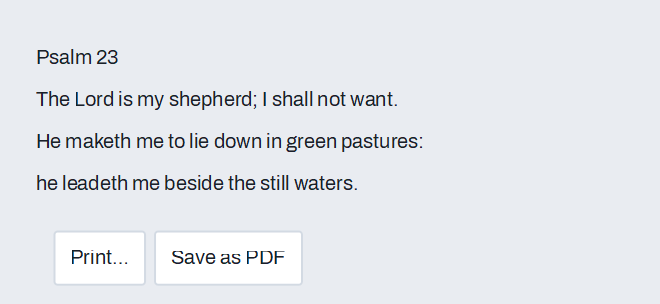
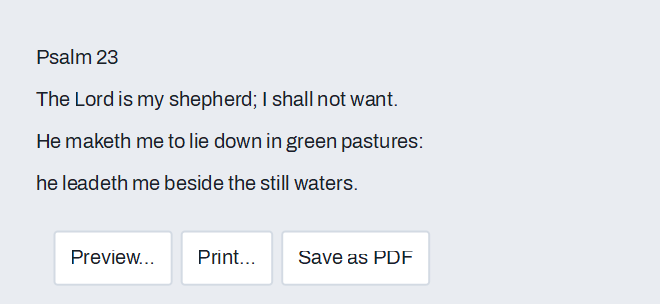
Print preview in its own window; the guide example gains Preview...
GUI_DIALOG is drawn inside its parent on Windows, which clipped the preview to
the example's 440x200 window (the gallery picture showed it: no page). The
preview is now a GUI_WINDOW of its own (640x860), as Qt's, Word's and the
browsers' are, the same on every platform: the parent's content waits disabled,
run_modal turns the loop until Print..., Close, the close box or Escape.
close_with ends it from code (tests, the gallery).

printing.md: Preview... in the example, run_preview in the API, Try it and the
design notes present the preview as the way on every platform (one line: Windows'
print dialog shows none of its own). Gallery: printing-preview.png. Windows 168/0.

Claude-Session: https://claude.ai/code/session_01LuozTG1hCoDVnQgJj1Hzzq

Changed region(s): [[0.1212, 0.7697, 0.6364, 0.9474]]

diff --git a/docs/guide/printing.md b/docs/guide/printing.md
@@ -19,17 +19,20 @@ feature {NONE} -- Initialization
 		local
 			l_window: GUI_WINDOW
 			l_stack, l_buttons: GUI_STACK
-			l_print, l_save: GUI_BUTTON
+			l_preview, l_print, l_save: GUI_BUTTON
 		do
 			create app.make ("Psalm", "org.example.psalm")
 			create l_window.make ("Psalm 23", 440, 200)
 			create l_stack.make_vertical
 			l_stack.extend (create {GUI_LABEL}.make (Psalm))
 			create l_buttons.make_horizontal
+			create l_preview.make ({STRING_32} "Preview%/8230/")
+			l_preview.click_actions.extend (agent preview_psalm (l_window))
 			create l_print.make ({STRING_32} "Print%/8230/")
 			l_print.click_actions.extend (agent print_psalm (l_window))
 			create l_save.make ("Save as PDF")
 			l_save.click_actions.extend (agent save_psalm)
+			l_buttons.extend (l_preview)
 			l_buttons.extend (l_print)
 			l_buttons.extend (l_save)
 			l_stack.extend (l_buttons)
@@ -47,6 +50,19 @@ feature {NONE} -- Printing
 			create l_job.make ("Psalm 23")
 			l_job.print_text (Psalm)
 			l_job.run_dialog (a_window)
+			if l_job.last_outcome = l_job.Outcome_failed and then attached l_job.last_error as al_why then
+				app.dialogs.inform ("Printing failed", al_why)
+			end
+		end
+
+	preview_psalm (a_window: GUI_WINDOW)
+			-- The pages as they will print; Print there goes on to the system's print dialog.
+		local
+			l_job: GUI_PRINT_JOB
+		do
+			create l_job.make ("Psalm 23")
+			l_job.print_text (Psalm)
+			l_job.run_preview (a_window)
 			if l_job.last_outcome = l_job.Outcome_failed and then attached l_job.last_error as al_why then
 				app.dialogs.inform ("Printing failed", al_why)
 			end
@@ -75,7 +91,7 @@ end
 
 ## Try it
 
-Press **Print…**: the system's print dialog opens over the window. Choose a printer and press Print: the psalm prints with "Page 1 of 1" in the footer, and `last_outcome` is `Outcome_printed`. Open it again and press Cancel: nothing prints and `last_outcome` is `Outcome_cancelled`. Press **Save as PDF**: the system's save dialog asks where, offering `psalm-23.pdf`; save, and open the file in any PDF reader. Cancel the save dialog and nothing is written. On a computer with no printer at all, Print… shows no dialog and `last_outcome` is `Outcome_no_printer`.
+Press **Preview…**: the psalm's page appears on gray, "Page 1 of 1", fitted; choose 100% and drag the page; press Close, and nothing prints. Press Preview… again and then its Print…: the system's print dialog opens. Press **Print…**: the system's print dialog opens over the window. Choose a printer and press Print: the psalm prints with "Page 1 of 1" in the footer, and `last_outcome` is `Outcome_printed`. Open it again and press Cancel: nothing prints and `last_outcome` is `Outcome_cancelled`. Press **Save as PDF**: the system's save dialog asks where, offering `psalm-23.pdf`; save, and open the file in any PDF reader. Cancel the save dialog and nothing is written. On a computer with no printer at all, Print… shows no dialog and `last_outcome` is `Outcome_no_printer`.
 
 ## API
 
@@ -89,6 +105,7 @@ Press **Print…**: the system's print dialog opens over the window. Choose a pr
 | `page_count`, `last_error` | The pages rendered (0 before a rendering and after printing); why the last step failed. |
 | `save_pdf (a_path)` | Write the rendered pages to `a_path` as a PDF, with no dialog: this is Save as PDF. False, with `last_error`, when the file can't be written. |
 | `run_dialog (a_parent)` | The system's print dialog over window `a_parent`, then the rendered pages printed as the user chose. Afterwards `last_outcome` says how it ended, and the rendering is gone: render again to print or save again. |
+| `run_preview (a_parent)` | A print preview of the rendered pages over `a_parent`, the same window on every platform: Previous and Next, "Page N of M", zoom (fit page, fit width, 100%), Print… and Close. Print… goes on to the system's print dialog (`run_dialog`); Close leaves `last_outcome` at `Outcome_cancelled` and keeps the rendering. Page Up and Page Down change pages, Home and End go to the first and last, the arrows or dragging move a page larger than the view, + and - step the zoom. |
 | `last_outcome` | `Outcome_printed` (1: the job went to the system's print queue), `Outcome_cancelled` (0), `Outcome_failed` (-1, with `last_error`) or `Outcome_no_printer` (-2: no dialog was shown). The same values on every platform. |
 
 To print a PDF you already have, without simple_gui, use simple_pdf's `SIMPLE_PDF_PRINTER` from `simple_pdf_print.ecf`: `print_file (a_path, a_title, a_parent_handle)` with the same four outcomes, `has_printer`, and the system's default paper.
@@ -105,11 +122,14 @@ Every platform shows its own print dialog and prints the same pages; the drawing
 
   Copies follow the dialog's collation: whole sets when it's on, and each page's copies together when it's off.
 
+  Windows' print dialog itself shows no preview of a program's pages (macOS's panel has one of its own); `run_preview` is the preview on every platform.
+
   Printers whose names use characters outside plain ASCII can't be reached, and printing to them fails with a message. A PDF printed on Windows through a PDF printer carries its text as drawn shapes, so it can't be searched.
 
 ## Design guidance
 
 - Lay pages out for paper, not for the screen: points, margins of about an inch, and type of 10 to 12 points.
+- Offer **Preview…** beside **Print…**: `run_preview` shows the pages as they will print in the same window on every platform, and goes on to the print dialog when the user is ready.
 - Offer **Save as PDF** beside **Print…**; it needs no printer, and it's how people send a page. Ask where with the system's save dialog (`app.dialogs.save_file_named`) and say nothing more on success: the file is where the user put it.
 - For a character beyond ASCII in a label, such as the ellipsis in "Print…", write its code point: `{STRING_32} "Print%/8230/"`. The compiler reads a class file saved without a UTF-8 byte-order mark one character per byte, so an ellipsis typed into one shows as "Printâ€¦", even in a `STRING_32`; the escape is right in any file.
 - Say what happened only when it failed. A cancelled dialog needs no message, and a printed job is the system's to report.
@@ -120,3 +140,4 @@ Every platform shows its own print dialog and prints the same pages; the drawing
 | Linux | macOS | Windows |
 |---|---|---|
 | ![printing on Linux](images/linux/printing.png) | ![printing on macOS](images/macos/printing.png) | ![printing on Windows](images/windows/printing.png) |
+| ![print preview on Linux](images/linux/printing-preview.png) | ![print preview on macOS](images/macos/printing-preview.png) | ![print preview on Windows](images/windows/printing-preview.png) |
